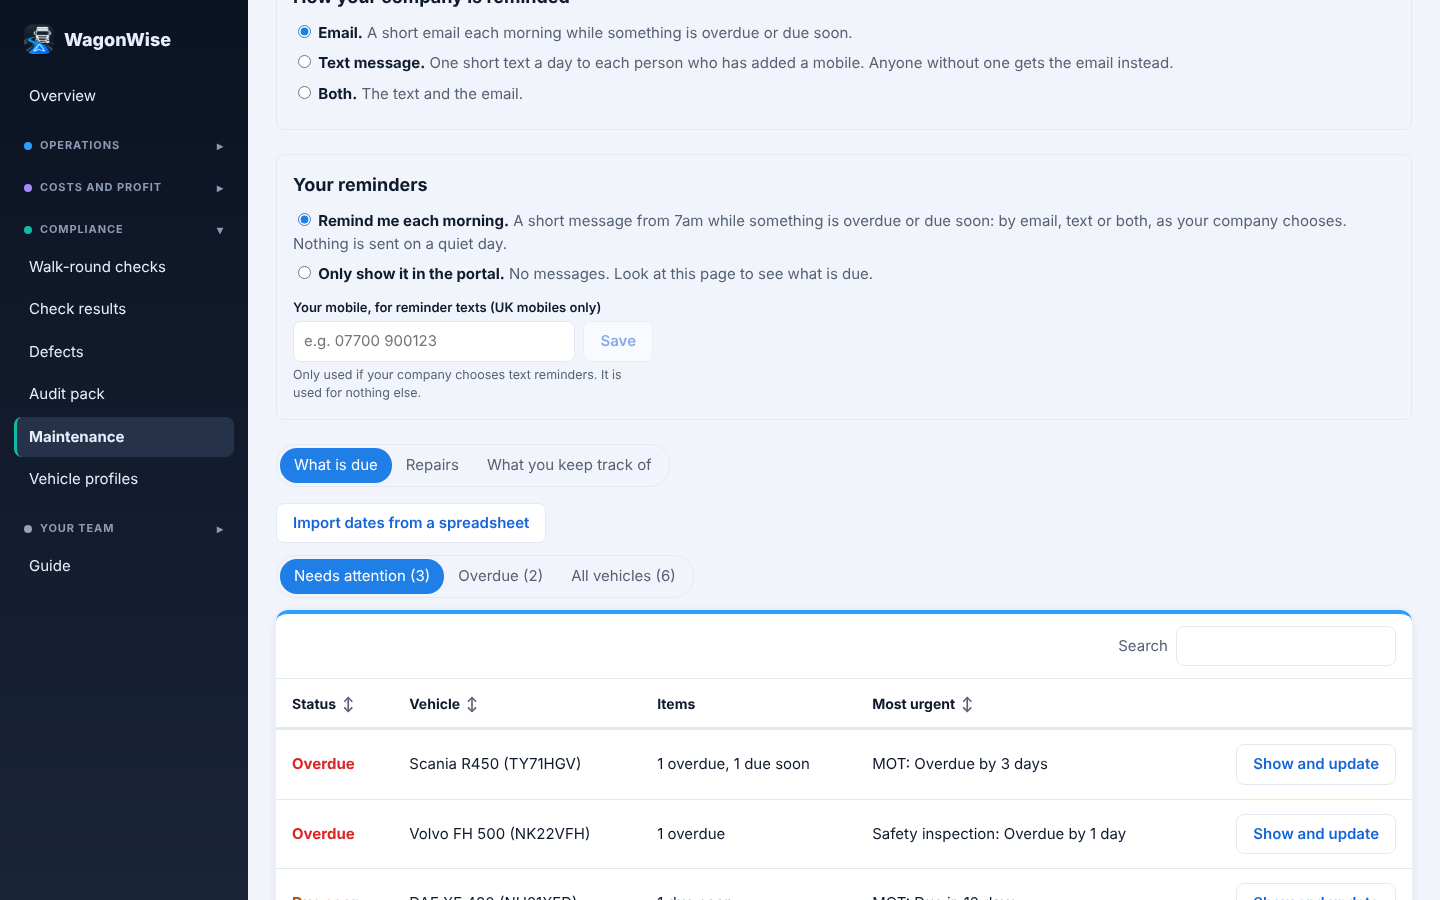
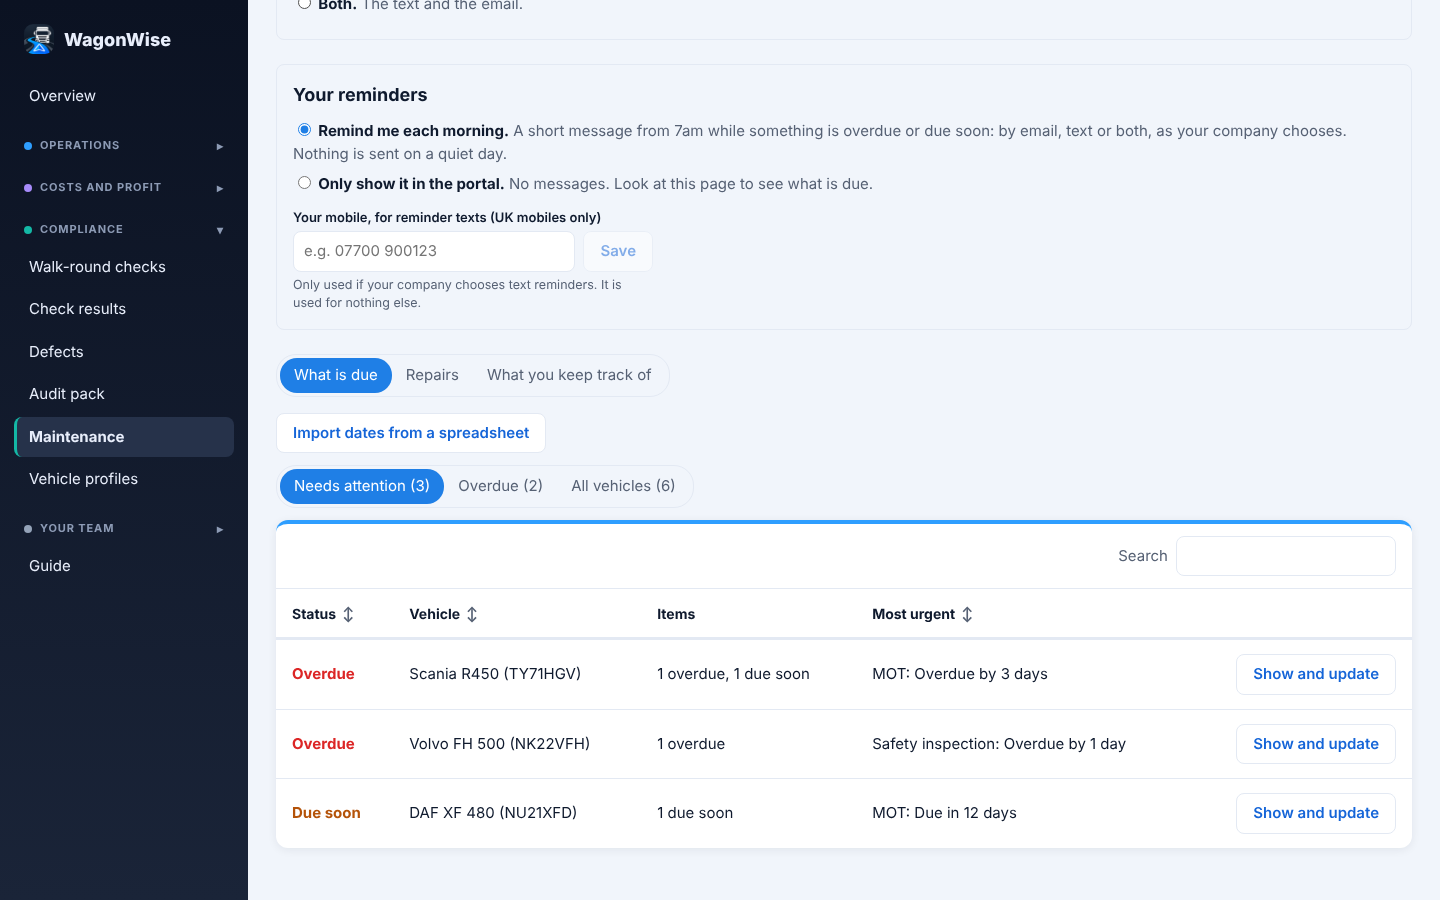
Landing pages: portal pictures remade from the current portal
The six portal-*.webp are remade from the store screenshots at 1280 x 800.
Looking ahead and Maintenance were retaken first.

Claude-Session: https://claude.ai/code/session_01M2Zazwe75CB639xse8srrn

diff --git a/apps/driver-app/store-assets/README.md b/apps/driver-app/store-assets/README.md
@@ -11,7 +11,13 @@ All screenshots use made-up data (fictional firm, example emails). Scripts are W
 
 ## The portal screenshots (retaken 2026-11-15, after the button tidy-up)
 
-Taken with Playwright at 1440 x 900 against a local stack (`pnpm db:up`, `pnpm db:migrate`, core, the staff BFF and the portal's dev server), signed in as a made-up manager (`manager@example.com`, "Sam Carter") of a made-up firm, "Tynedale Haulage". The data went in by SQL and is not in the repo: six vehicles, six drivers, about 300 jobs over 75 days (JOB-1042 assigned and not yet opened, three on the road, one at pickup, one with no driver), ten days of walk-round checks with one "fix soon" defect, running costs, driver rates, a fuel statement and maintenance dates with two overdue. Job profit is shown for October, the last full month.
+Taken with Playwright at 1440 x 900 against a local stack (`pnpm db:up`, `pnpm db:migrate`, core, the staff BFF and the portal's dev server), signed in as a made-up manager (`manager@example.com`, "Sam Carter") of a made-up firm, "Tynedale Haulage". The data went in by SQL and is not in the repo: six vehicles, six drivers, about 680 jobs over 170 days (300 over 75 days when all but Looking ahead and Maintenance were taken, so job numbers differ between pictures) (JOB-1042 assigned and not yet opened, three on the road, one at pickup, one with no driver), ten days of walk-round checks with one "fix soon" defect, running costs, driver rates, a fuel statement and maintenance dates with two overdue. Job profit is shown for October, the last full month.
+
+The landing pages' copies (`sites/landing/img/portal-*.webp`, 1280 x 800) were remade from these on 2026-11-15 with ffmpeg, which does the same job as the two PowerShell scripts for the portal pictures and runs anywhere:
+
+```bash
+for k in overview live-map job-profit looking-ahead maintenance check-results; do ffmpeg -y -i apps/dashboard/store-assets/raw/$k.png -vf "scale=1280:800:flags=lanczos" -c:v libwebp -quality 80 sites/landing/img/portal-$k.webp; done
+```
 
 **The live map's background is not live.** Map tiles could not be fetched where these were taken, so the map style was swapped for the map area of the previous `live-map.png`, placed at its true position (zoom 9, north-east England), and the three vehicles were given positions that sit on the dots already in that picture. The page, the markers, the list and the zone outline are the real portal. Retake it with a MapTiler key (`VITE_MAPTILER_API_KEY`) when one is to hand.
 

diff --git a/docs/history/log.md b/docs/history/log.md
@@ -4,6 +4,8 @@ Dated changes since 16 October 2026. Open the top ~40 lines to see what changed 
 Older entries (September to 15 October 2026) are in `docs/history/log-archive.md`. `progress.md` has the current state: this
 file is for finding out when or why something changed. Add new entries at the top of the list.
 
+- 2026-11-15: **The landing pages' portal pictures show the portal as it is now.** The six `sites/landing/img/portal-*.webp` (the For hauliers page's headline picture and its six tabs, and the home page's) were remade from `apps/dashboard/store-assets/raw/` at 1280 x 800. Two raw screenshots were retaken first: Looking ahead (the made-up jobs now go back to June, so no month is empty) and Maintenance (scrolled to show the list of what is due). Made with ffmpeg here, not the PowerShell scripts; the command is in the store-assets README. Looked at on the page in a browser: no picture is missing.
+
 - 2026-11-15: **Music on the demo video.** The owner supplied a royalty-free track (`sites/demo-video/music.mp3`); `render.mjs` lays it under the whole video at half volume, faded in and out, and the copy on the For hauliers page carries it too. The page's video still starts with the sound off, and its line now says so. The clips stay silent. The licence was the owner's check, not looked at here.
 
 - 2026-11-15: **The demo video is on the For hauliers page** (owner's say-so). A "Watch it work" section sits under the headline of `sites/landing/for-hauliers/index.html`, playing a smaller copy (1280 x 720, about 2.3 MB, `sites/landing/video/`) with a still shown first; nothing is downloaded until someone presses play. `sites/demo-video/render.mjs` rewrites the copy and the still, so the page follows the video. Looked at in a browser at 1440 and 390 wide, and it played. Goes live when the landing site next deploys.
